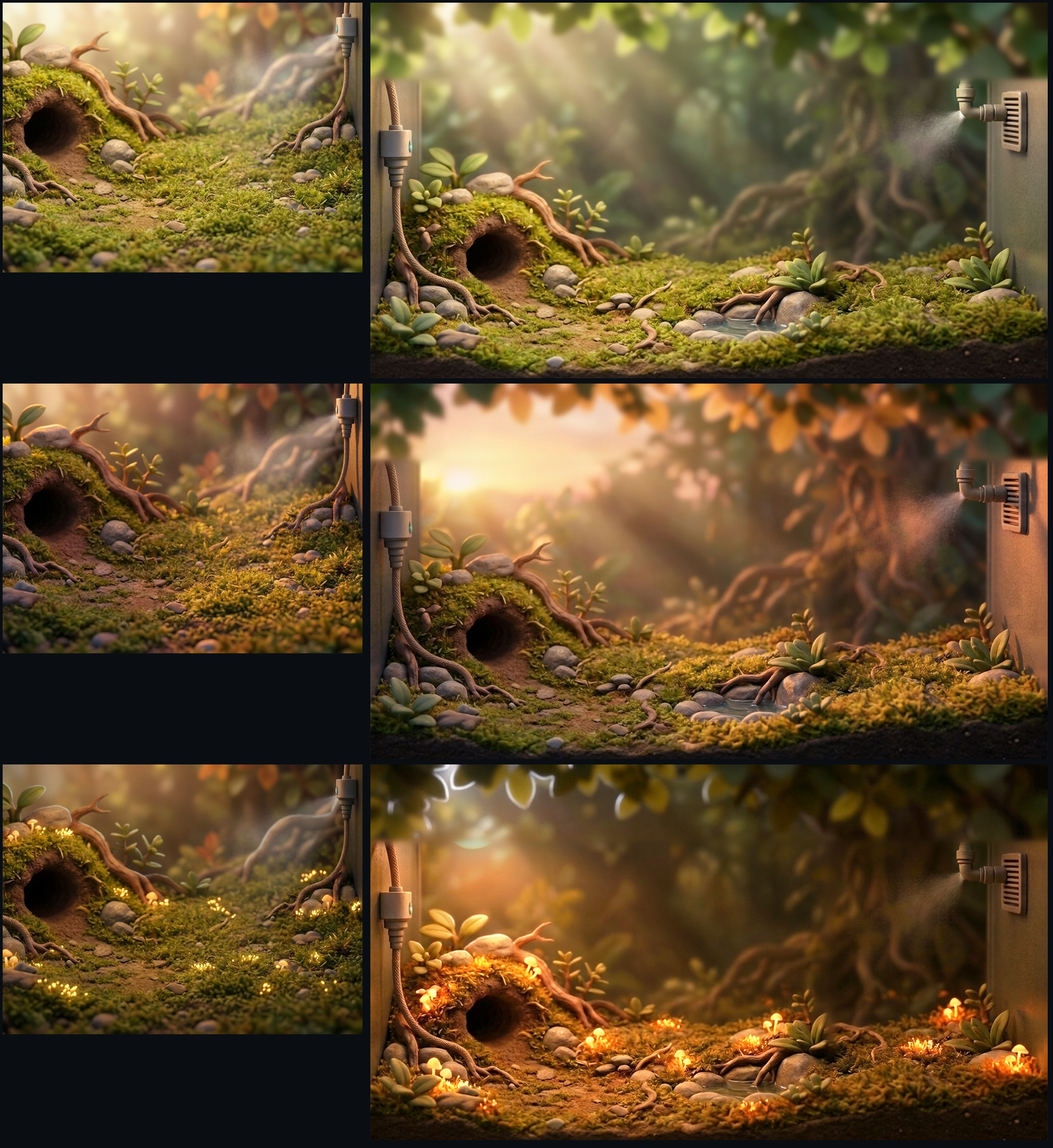
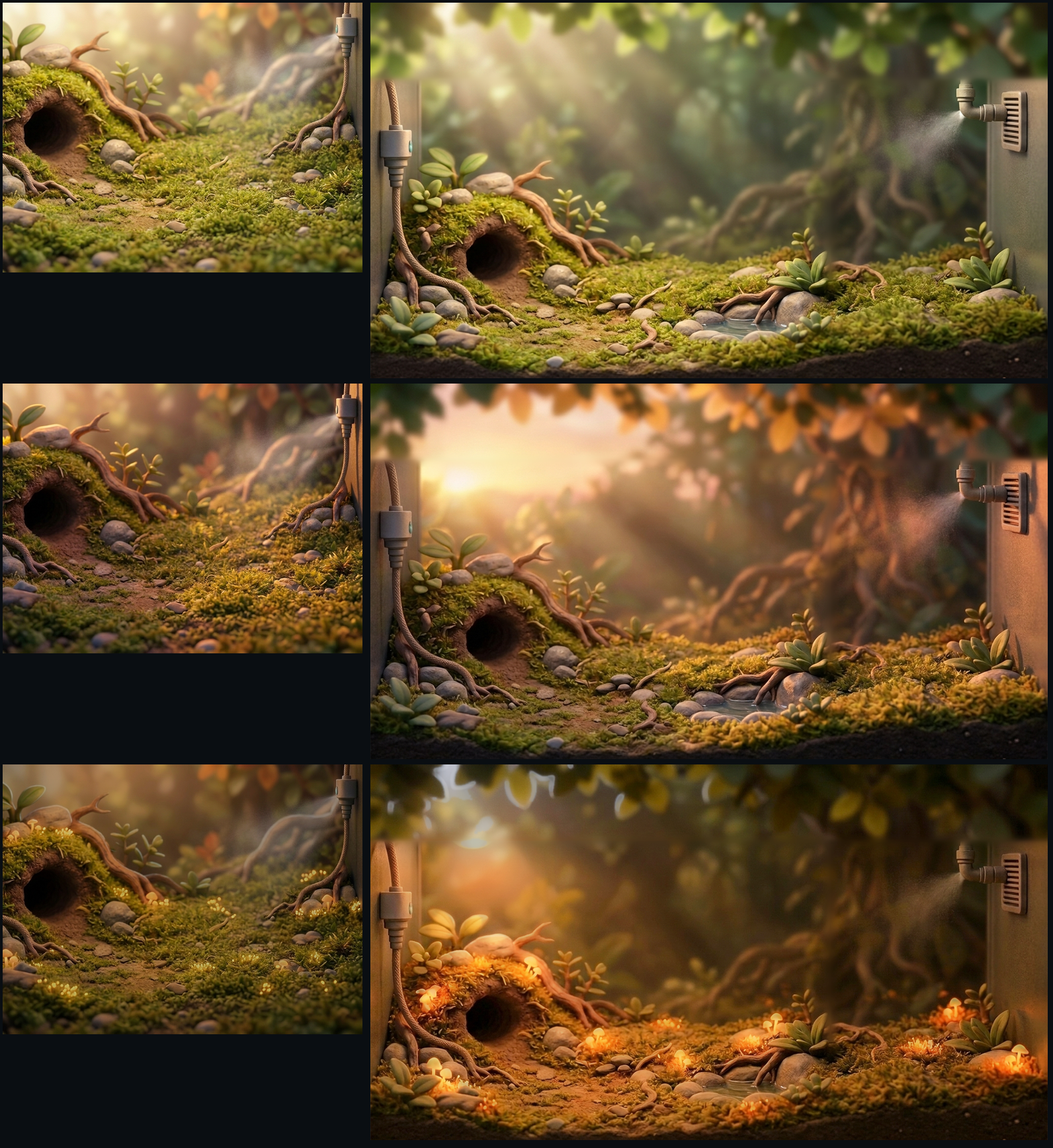
Pods masters pass 103: the near night fixed by hand, signatures carried

diff --git a/art/station-masters/pods/tools/vivariumnear.py b/art/station-masters/pods/tools/vivariumnear.py
@@ -1,5 +1,5 @@
 """Pass 101: the near Vivarium, 544x408 in day, dusk and night (Station art director's item (d), Oct 10): 'one mibi up close', the glass at screen (24, 56): the SAME place as the signed Idle painting, seen closer and at ground level. Ground band = the bottom 160 rows (screen y 304 to 464), clear moss and soil in the centre for one mibi (box about 304x312, feet near the centre); behind: the burrow's edge, stones, roots; at the right edge the feed line and the mist.
-Day: source/raw/vivarium-near-day.jpg (Pro, with idle-vivarium-day as the place reference). Dusk and night: Pro edits of the near day picture (vivarium-near-dusk.jpg, vivarium-near-night.jpg), each with the signed Idle light as the light reference. Each picture is cut to 4:3 (centre) and reduced to 544x408 with Lanczos; no grading (the night's mean L* is 32.7 as painted, the brief asks 30 or more).
+Day: source/raw/vivarium-near-day.jpg (Pro, with idle-vivarium-day as the place reference). Dusk and night: Pro edits of the near day picture (vivarium-near-dusk.jpg, vivarium-near-night.jpg), each with the signed Idle light as the light reference. Each picture is cut to 4:3 (centre) and reduced to 544x408 with Lanczos; no grading for day and dusk; the night (held by the art director, pass 103) has its glow blooms cut and is regraded to a mean L* of about 31.
 python3 -I tools/vivariumnear.py -> slices/vivarium-near-*.png, marks/vivarium-near-proof-1x.png (each light beside Idle's matching light)"""
 import os, json, hashlib
 import numpy as np
@@ -7,12 +7,26 @@ from PIL import Image
 ROOT = os.path.dirname(os.path.dirname(os.path.abspath(__file__))); os.chdir(ROOT)
 def lstar(a):
     a = a / 255.0; lin = np.where(a <= 0.04045, a / 12.92, ((a + 0.055) / 1.055) ** 2.4); Y = lin @ np.array([0.2126, 0.7152, 0.0722]); return np.where(Y > 0.008856, 116 * np.cbrt(Y) - 16, 903.3 * Y)
+def bloom_fix(im):
+    """Pass 103 (the art director's hold on the near night, same hand fix as Idle's night): every pixel above L* 50 cut 50 percent toward a 31 px median, then the linear light scaled by the least reduction that brings the mean L* to 31 or less (the brief asks 30 or more), the mean R kept at or above the mean B."""
+    from PIL import ImageFilter
+    a = np.asarray(im).astype(float); L = lstar(a)
+    med = np.asarray(im.resize((272, 204), Image.LANCZOS).filter(ImageFilter.MedianFilter(15)).resize((544, 408), Image.BICUBIC)).astype(float)
+    w = np.asarray(Image.fromarray((np.clip((L - 50.0) / 12.0, 0, 1) * 255).astype(np.uint8)).filter(ImageFilter.GaussianBlur(1.5))).astype(float)[..., None] / 255.0
+    a = a + 0.5 * w * (med - a); lin = np.where(a / 255 <= 0.04045, a / 255 / 12.92, ((a / 255 + 0.055) / 1.055) ** 2.4)
+    for g in np.arange(1.0, 0.5, -0.01):
+        l2 = lin * g; cand = np.clip(np.rint(np.where(l2 <= 0.0031308, l2 * 12.92, 1.055 * l2 ** (1 / 2.4) - 0.055) * 255), 0, 255)
+        if lstar(cand).mean() <= 31.0: break
+    assert lstar(cand).mean() >= 30.0 and cand[..., 0].mean() >= cand[..., 2].mean()
+    return Image.fromarray(cand.astype(np.uint8))
 man = json.load(open("slices/manifest.json")); outs = {}; rep = {}
 for k in ("day", "dusk", "night"):
     im = Image.open(f"source/raw/vivarium-near-{k}.jpg").convert("RGB"); W, H = im.size; cw = round(H * 544 / 408)
     if cw <= W: x0 = (W - cw) // 2; im = im.crop((x0, 0, x0 + cw, H))
     else: ch = round(W * 408 / 544); y0 = (H - ch) // 2; im = im.crop((0, y0, W, y0 + ch))
-    im = im.resize((544, 408), Image.LANCZOS); n = f"vivarium-near-{k}-544x408"; im.save(f"slices/{n}.png", optimize=True); outs[k] = im
+    im = im.resize((544, 408), Image.LANCZOS)
+    if k == "night": before = im; im = bloom_fix(im); before.save("/tmp/near-night-before.png")
+    n = f"vivarium-near-{k}-544x408"; im.save(f"slices/{n}.png", optimize=True); outs[k] = im
     rep[k] = round(float(lstar(np.asarray(im).astype(float)).mean()), 1)
     man[n] = {"size": [544, 408], "rect": [24, 56, 544, 408], "src": f"source/raw/vivarium-near-{k}.jpg (gemini-3-pro-image)", "made": f"the near Vivarium by {k} ('one mibi up close', the glass at screen (24, 56)): the same place as the signed Idle painting seen closer at ground level, a clear moss and soil band across the bottom 160 rows for one mibi, the burrow's edge, stones and roots behind, the feed line and the mist at the right edge, no creature; a Pro painting" + ("" if k == "day" else f" (an edit of the near day picture, matched to Idle's {k} light)") + ", cut to 4:3 and reduced to 544x408 with Lanczos (pass 101)", "sha256": hashlib.sha256(open(f"slices/{n}.png", "rb").read()).hexdigest()}
 json.dump(man, open("slices/manifest.json", "w"), indent=1); print(json.dumps(rep))

diff --git a/art/station-masters/pods/tools/status.py b/art/station-masters/pods/tools/status.py
@@ -4,6 +4,8 @@ import json, re
 m = json.load(open("slices/manifest.json")); S = {}
 FR = {"120x112", "120x96", "184x104", "184x112", "184x256", "184x304", "376x264"}
 AD_RECORDS = {
+ "vivarium-near-day-544x408": ('signed', 'art director, near Vivarium verdict (57490118)', 'signed (art director): the Vivarium up close, the same place as Idle at ground level'),
+ "vivarium-near-dusk-544x408": ('signed', 'art director, near Vivarium verdict (57490118)', 'signed (art director): the Vivarium up close, the same place as Idle at ground level'),
  "room-bench-stage-compare": ('withdrawn', None, "withdrawn (art director): the old glass-lab compare stage; Compare is not in the current layout, and the room was redrawn in the world brief's look without it"),
  "idle-vivarium-night-1024x568": ("new", None, "pass 102: the art director held it for the Station lead's measurement; fixed by hand (moon rim recoloured toward (168, 182, 204) at 70 percent, glow blooms cut 50 percent toward a 31 px median, regraded to mean L* 30.6 with R above B); awaiting the art director's judgement (not signed)"),
  "home-bay-shut-176x72": ('signed', 'art director, Home column verdict (1f7d4a83)', "signed (art director): Home's section column in the world brief's look (passes 97, 99, 100)"),
@@ -28,6 +30,7 @@ for n in m:
     elif n in ("room-bench-stage", "room-bench-stage-overview", "room-bench-stage-chapter", "room-bench-stage-collection", "room-cradle", "room-cradle-front", "room-shelf", "room-stamp-case-152x152", "room-stamp-case-152x152-front", "ring-well-idle-80x80", "ring-well-selected-80x80", "ring-well-empty-80x80", "ring-hatch-80x56", "ring-kin-56x56", "ring-collection-idle-176x176", "ring-collection-closed-176x176"): sign(n, "signed", "art director, Pods room verdict (68130857)", "signed (art director): the Pods room in the world brief's look, the sample case of board frame 2 (passes 93, 95, 98)")
     elif n == "ring-column-112x522": sign(n, "signed", "art director, Pods room verdict (ac57c715)", "a strip of the housing: two rows of screws, a hose clip and a small vent; signed by the art director")
     elif re.match(r"home-(bay|well|chamber|cradle|journal|bed)-", n): sign(n, "new", None, "pass 99: Home's section column fitting, cut from the second Pro sheet (home-column-sheet-r2; the first, pass 97, was inked and had wood), transparent around it; awaiting the art director's judgement (not signed)")
+    elif n == "vivarium-near-night-544x408": sign(n, "new", None, "pass 103: the art director held it (too bright, blooms for show); fixed by hand (blooms cut 50 percent toward a 31 px median, regraded to mean L* about 30.5 with R above B); awaiting the art director's judgement (not signed)")
     elif re.match(r"vivarium-near-(day|dusk|night)-544x408$", n): sign(n, "new", None, "pass 101: the near Vivarium by light (a Pro painting; dusk and night are Pro edits of the near day picture, matched to the signed Idle lights), no creatures; awaiting the art director's judgement (not signed); the slice id is the art director's")
     elif re.match(r"idle-vivarium-(day|dusk|night)-1024x568$", n): sign(n, "signed", "art director, 10-10 09:27", "Idle's Vivarium by light, seams softened in pass 96 (hashes a41cd5a51668 / 8ff860ffa60a / de75e05559ba); the night's cooler canopy accepted")
     elif n in ("room-bench-stage", "room-bench-stage-overview", "room-bench-stage-chapter", "room-bench-stage-collection", "room-cradle", "room-cradle-front", "room-shelf", "room-stamp-case-152x152", "room-stamp-case-152x152-front", "ring-well-idle-80x80", "ring-well-selected-80x80", "ring-well-empty-80x80", "ring-hatch-80x56", "ring-kin-56x56", "ring-collection-idle-176x176", "ring-collection-closed-176x176", "ring-column-112x522"): sign(n, "new", None, "pass 93: the Pods room set in the sample-case language (the signed concept board, frame 2): Pro paintings, the stage composed to the layout's rectangles, the pieces cut at size from one sheet; replaces the earlier glass-dish set; awaiting the art director's judgement (not signed)")

diff --git a/art/station-masters/pods/README.md b/art/station-masters/pods/README.md
@@ -364,9 +364,9 @@ Each slice is named by the register id it replaces (`room`, `ring`, `page`, `tra
 | `trait-picture-standin-184x104` | 184×104 |  | withdrawn (pass 59 verdict): withdrawn with the pane (the withdrawal signed by the art director): the open chapter page (origin/design-pods-open d00f372a) has no per-cell frame and no stand-in card; nothing more is cut for it (the pass 58 sill frames were never signed) | the plain stand-in card for a trait picture not yet painted: deep ground, a faint hatch, no text |
 | `trait-picture-standin-184x256` | 184×256 |  | withdrawn (pass 59 verdict): withdrawn with the pane (the withdrawal signed by the art director): the open chapter page (origin/design-pods-open d00f372a) has no per-cell frame and no stand-in card; nothing more is cut for it (the pass 58 sill frames were never signed) | the plain stand-in card for a trait picture not yet painted: deep ground, a faint hatch, no text |
 | `trait-picture-standin-376x264` | 376×264 |  | withdrawn (pass 59 verdict): withdrawn with the pane (the withdrawal signed by the art director): the open chapter page (origin/design-pods-open d00f372a) has no per-cell frame and no stand-in card; nothing more is cut for it (the pass 58 sill frames were never signed) | the plain stand-in card for a trait picture not yet painted: deep ground, a faint hatch, no text |
-| `vivarium-near-day-544x408` | 544×408 | (24, 56, 544, 408) | new: pass 101: the near Vivarium by light (a Pro painting; dusk and night are Pro edits of the near day picture, matched to the signed Idle lights), no creatures; awaiting the art director's judgement (not signed); the slice id is the art director's | the near Vivarium by day ('one mibi up close', the glass at screen (24, 56)): the same place as the signed Idle painting seen closer at ground level, a clear moss and soil band across the bottom 160 rows for one mibi, the burrow's edge, stones and roots behind, the feed line and the mist at the right edge, no creature; a Pro painting, cut to 4:3 and reduced to 544x408 with Lanczos (pass 101) |
-| `vivarium-near-dusk-544x408` | 544×408 | (24, 56, 544, 408) | new: pass 101: the near Vivarium by light (a Pro painting; dusk and night are Pro edits of the near day picture, matched to the signed Idle lights), no creatures; awaiting the art director's judgement (not signed); the slice id is the art director's | the near Vivarium by dusk ('one mibi up close', the glass at screen (24, 56)): the same place as the signed Idle painting seen closer at ground level, a clear moss and soil band across the bottom 160 rows for one mibi, the burrow's edge, stones and roots behind, the feed line and the mist at the right edge, no creature; a Pro painting (an edit of the near day picture, matched to Idle's dusk light), cut to 4:3 and reduced to 544x408 with Lanczos (pass 101) |
-| `vivarium-near-night-544x408` | 544×408 | (24, 56, 544, 408) | new: pass 101: the near Vivarium by light (a Pro painting; dusk and night are Pro edits of the near day picture, matched to the signed Idle lights), no creatures; awaiting the art director's judgement (not signed); the slice id is the art director's | the near Vivarium by night ('one mibi up close', the glass at screen (24, 56)): the same place as the signed Idle painting seen closer at ground level, a clear moss and soil band across the bottom 160 rows for one mibi, the burrow's edge, stones and roots behind, the feed line and the mist at the right edge, no creature; a Pro painting (an edit of the near day picture, matched to Idle's night light), cut to 4:3 and reduced to 544x408 with Lanczos (pass 101) |
+| `vivarium-near-day-544x408` | 544×408 | (24, 56, 544, 408) | signed (art director, near Vivarium verdict (57490118)): signed (art director): the Vivarium up close, the same place as Idle at ground level | the near Vivarium by day ('one mibi up close', the glass at screen (24, 56)): the same place as the signed Idle painting seen closer at ground level, a clear moss and soil band across the bottom 160 rows for one mibi, the burrow's edge, stones and roots behind, the feed line and the mist at the right edge, no creature; a Pro painting, cut to 4:3 and reduced to 544x408 with Lanczos (pass 101) |
+| `vivarium-near-dusk-544x408` | 544×408 | (24, 56, 544, 408) | signed (art director, near Vivarium verdict (57490118)): signed (art director): the Vivarium up close, the same place as Idle at ground level | the near Vivarium by dusk ('one mibi up close', the glass at screen (24, 56)): the same place as the signed Idle painting seen closer at ground level, a clear moss and soil band across the bottom 160 rows for one mibi, the burrow's edge, stones and roots behind, the feed line and the mist at the right edge, no creature; a Pro painting (an edit of the near day picture, matched to Idle's dusk light), cut to 4:3 and reduced to 544x408 with Lanczos (pass 101) |
+| `vivarium-near-night-544x408` | 544×408 | (24, 56, 544, 408) | new: pass 103: the art director held it (too bright, blooms for show); fixed by hand (blooms cut 50 percent toward a 31 px median, regraded to mean L* about 30.5 with R above B); awaiting the art director's judgement (not signed) | the near Vivarium by night ('one mibi up close', the glass at screen (24, 56)): the same place as the signed Idle painting seen closer at ground level, a clear moss and soil band across the bottom 160 rows for one mibi, the burrow's edge, stones and roots behind, the feed line and the mist at the right edge, no creature; a Pro painting (an edit of the near day picture, matched to Idle's night light), cut to 4:3 and reduced to 544x408 with Lanczos (pass 101) |
 | `wish-mark-12` | 12×12 |  | new: pass 81: redrawn after the art director's verdict on pass 75; awaiting verdict | the pinned look's glint: a 10x10 silhouette (yellow, cream core, `gold` shade lower right) inside a 1 px `bark` keyline, so 12x12; on a trait cell and its plate (pass 81, after the art director's verdict on pass 75) |
 | `wish-mark-24` | 24×24 |  | new: pass 81: redrawn after the art director's verdict on pass 75; awaiting verdict | the pinned wish panel's corner on the face spread: the same glint drawn again at 22x22 inside a 1 px `bark` keyline, so 24x24, the horizontal arm 2 px thick to its tips; never scaled (pass 81, after the art director's verdict on pass 75) |
 
@@ -738,6 +738,10 @@ Each slice is named by the register id it replaces (`room`, `ring`, `page`, `tra
 | `trait-picture-frame-376x264-unread` | 376×264 |  | withdrawn (pass 59 verdict): withdrawn with the pane (the withdrawal signed by the art director): the open chapter page (origin/design-pods-open d00f372a) has no per-cell frame and no stand-in card; nothing more is cut for it (the pass 58 sill frames were never signed) | frost texture at 0.9 alpha under the frame (pass 58: bottom rail deepened to a 20 px sill between the side rails (columns 9 to 365): the rails' body colour (60, 77, 92), opaque, flat, no ornament; its top edge is the top rail's inner profile mirrored; the rails keep their full profile to the bottom edge, with the old rail's two dark bottom rows) |
 
 <!-- end of the generated Slices section -->
+
+## Pass 103 - the near night, same hand fix
+
+The art director held `vivarium-near-night-544x408` (too bright, glow blooms for show) and asked for the same hand fix as Idle's night, no paid call. [`tools/vivariumnear.py`](tools/vivariumnear.py) `bloom_fix()`: every pixel above L* 50 cut 50 percent toward a 31 px median, then the linear light scaled by the least reduction that brings the mean L* to 31 or less (32.8 before, 30.9 after; mean RGB (94.2, 69.2, 31.2), R above B). New hash (sha256 prefix) 85724db0f288; status `new` for the art director's judgement. The near day and dusk (signed by the art director) are byte-identical; `status.py` carries their signatures. Before and after at 1x (before left): `marks/vivarium-near-night-fix-crops-1x.png`; the proof `marks/vivarium-near-proof-1x.png` is refreshed.
 
 ## Pass 102 - Idle's night fixed by hand, status carried
 
